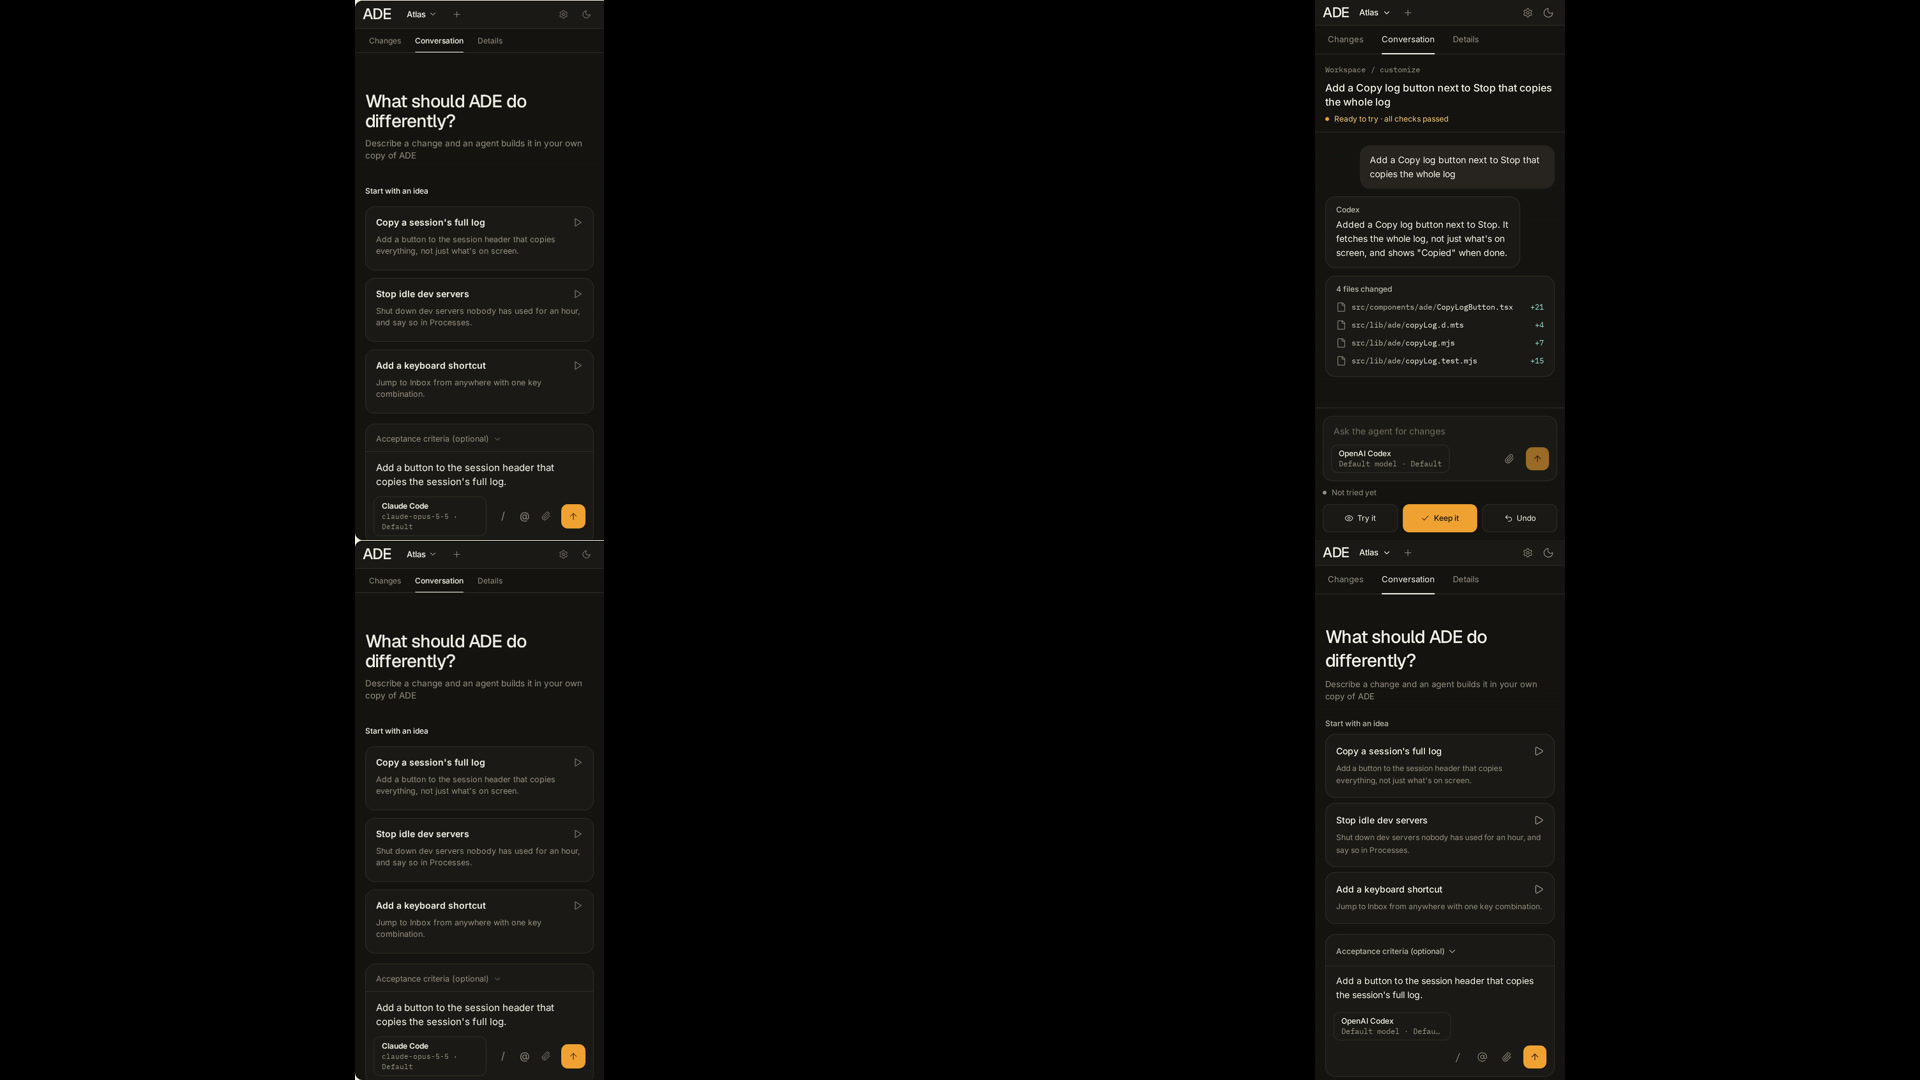
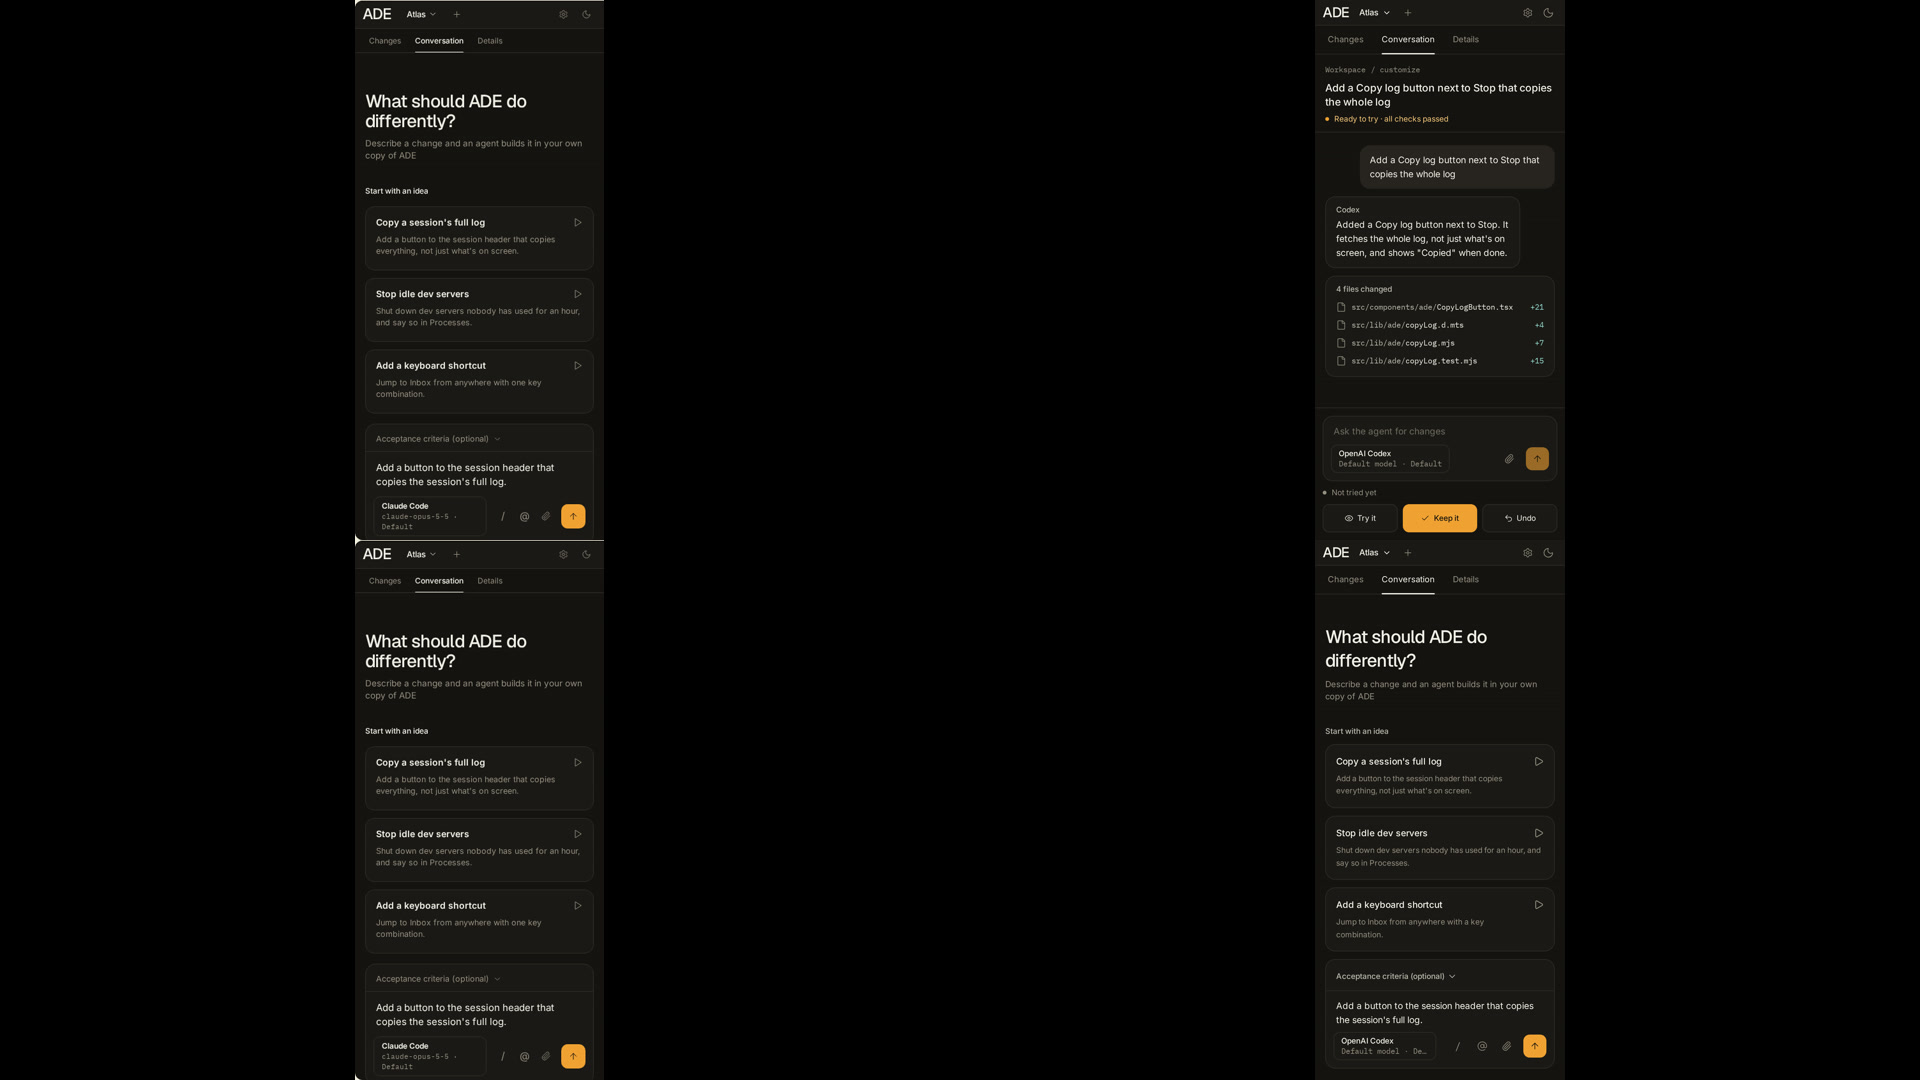
Fit Customize composer controls on phones

Changed region(s): [[0.6875, 0.6722, 0.8125, 0.9778], [0.7812, 0.9472, 0.8125, 1.0]]

diff --git a/src/components/ade/customize/CustomizeStart.tsx b/src/components/ade/customize/CustomizeStart.tsx
@@ -30,7 +30,8 @@ const IDEAS = [
   },
   {
     title: "Add a keyboard shortcut",
-    description: "Jump to Inbox from anywhere with one key combination.",
+    description: "Jump to Inbox from anywhere with a key combination.",
+    descriptionClass: "max-w-64",
     prompt: "Add a keyboard shortcut that opens Inbox from anywhere in ADE.",
   },
 ];
@@ -136,9 +137,9 @@ export function CustomizeStart({ state }: { state: CustomizeState }) {
         Describe a change and an agent builds it in your own copy of ADE
       </p>
 
-      <div className="mt-6 @lg:mt-8">
+      <div className="mt-9 @lg:mt-8">
         <div className="label-section">Start with an idea</div>
-        <div className="mt-2 grid grid-cols-[repeat(auto-fill,minmax(13rem,1fr))] gap-2 @lg:mt-3 @lg:gap-3">
+        <div className="mt-3 grid grid-cols-[repeat(auto-fill,minmax(13rem,1fr))] gap-3 @lg:mt-3 @lg:gap-3">
           {IDEAS.map((idea) => (
             <button
               key={idea.title}
@@ -154,7 +155,11 @@ export function CustomizeStart({ state }: { state: CustomizeState }) {
                   aria-hidden
                 />
               </div>
-              <p className="line-clamp-2 text-xs leading-relaxed text-dim">{idea.description}</p>
+              <p
+                className={`line-clamp-2 text-xs leading-relaxed text-dim ${idea.descriptionClass ?? ""}`}
+              >
+                {idea.description}
+              </p>
             </button>
           ))}
         </div>
@@ -171,10 +176,11 @@ export function CustomizeStart({ state }: { state: CustomizeState }) {
         </Link>
       )}
 
-      <div className="mt-4 @lg:mt-6">
+      <div className="mt-3 @lg:mt-6">
         <Composer
           key={seed.nonce}
           mode="new"
+          compact
           projectId="ade-self"
           selection={selection}
           onSelectionChange={setSelection}

diff --git a/src/components/ade/Composer.tsx b/src/components/ade/Composer.tsx
@@ -85,6 +85,7 @@ export function Composer({
   onWorkflowSelect,
   sessionId,
   draftStorageKey,
+  compact = false,
 }: {
   projectId?: string;
   mode: "new" | "follow-up";
@@ -112,6 +113,8 @@ export function Composer({
   onWorkflowSelect?: (workflow: Workflow) => void;
   sessionId?: string;
   draftStorageKey?: string;
+  /** Use a shorter initial textarea for a dense, guided new-task surface. */
+  compact?: boolean;
 }) {
   const agents = useAdeState((state) => state.agents);
   const [text, setText] = useState(initialText ?? "");
@@ -261,8 +264,8 @@ export function Composer({
     const el = textareaRef.current;
     if (!el) return;
     el.style.height = "0px";
-    el.style.height = `${Math.max(el.scrollHeight, mode === "new" ? 72 : 44)}px`;
-  }, [text, mode]);
+    el.style.height = `${Math.max(el.scrollHeight, mode === "new" && !compact ? 72 : 44)}px`;
+  }, [text, mode, compact]);
 
   useEffect(() => {
     if (!pickerOpen) return;
@@ -654,7 +657,7 @@ export function Composer({
           disabledReason ??
           (workflow ? "Add instructions for this workflow (optional)" : placeholder)
         }
-        rows={mode === "new" ? 3 : 1}
+        rows={mode === "new" ? (compact ? 2 : 3) : 1}
         className={`block w-full resize-none bg-transparent px-4 ${selectedItems.length ? "pt-2" : "pt-3"} pb-2 text-sm leading-5.5 placeholder:text-dim/70 focus-visible:outline-none disabled:opacity-60`}
       />
       <ComposerAttachments
@@ -693,7 +696,9 @@ export function Composer({
             </div>,
             document.body,
           )}
-        <div className="flex flex-wrap items-center gap-2 px-3 pb-3">
+        <div
+          className={`flex flex-wrap items-center gap-2 px-3 pb-3 ${compact ? "@min-[22rem]/composer:flex-nowrap" : ""}`}
+        >
           <button
             ref={chipRef}
             type="button"

diff --git a/cook/ROUNDS.md b/cook/ROUNDS.md
@@ -211,3 +211,13 @@ Changes: Details is available on the start screen with ADE version, stock/privat
 Verification: `npm run typecheck`, `npm run lint`, `npm run token-audit`, `npm run build`, and `npm test` passed. The full suite reported 761 passed, 1 skipped, 0 failed; token audit reported 0 errors (52 existing warnings). The browser integration test confirms the new-change composer exposes workflow and file-reference controls. `git diff --check` is clean.
 
 Stills: `cook/stills/r13/`, compare `cook/compare/r13/all.jpg`. The phone run verified Details, `/` and `@`, ready and kept states, and the expanded preview with its address and 44px controls. A final S08-only capture refreshed the start/details images and comparison; its harness and ADE process exited. The latest visual review scored the compact phone composition 88/100 overall: all toolbar controls are visible, with remaining differences in vertical spacing, card density, and the installed agent/model label. The behavior and check gates pass; the visual bar is still below the 90-point target, so leave the branch for human review before any merge.
+
+## Round 14
+
+Focus: finish the phone start composition and make the bottom composer controls fit on one row.
+
+Changes: the shared composer now accepts an opt-in compact mode; only Customize's new-change composer uses a two-row initial textarea and keeps its footer on one row at phone widths. Other composer surfaces keep their existing sizing. The idea cards now match the reference copy and wrap, with the card and composer spacing tuned to W08. The screenshot fixture creates Atlas and Lantern in its disposable home, and the preview capture waits for the browser install and phone auto-open to finish before saving.
+
+Verification: full typecheck, lint (0 errors), token-audit (0 errors; 52 existing warnings), build, and `npm test` pass. The full suite reported 761 passed, 1 skipped, 0 failed. The integration test checks `/`, `@`, and the compact two-row composer. Final S08 capture: 5 phone states, real checks reached Ready, preview address loaded, 0 harness problems, and no harness processes left. `git diff --check` is clean.
+
+Stills: `cook/stills/r14/`, compare `cook/compare/r14/all.jpg`. Two fresh screenshot-only reviewers scored (layout, color, typography, detail, interaction): 97/98/95/95/93 and 93/97/91/90/93. Medians are **95/97.5/93/92.5/93**, meeting all five bars (90/95/90/85/90). Remaining visual difference: the installed OpenAI Codex/default model label is shown honestly and differs from the mock's Claude label. Customize ADE is ready on `customize-ade` for human review; no merge or push was made.
